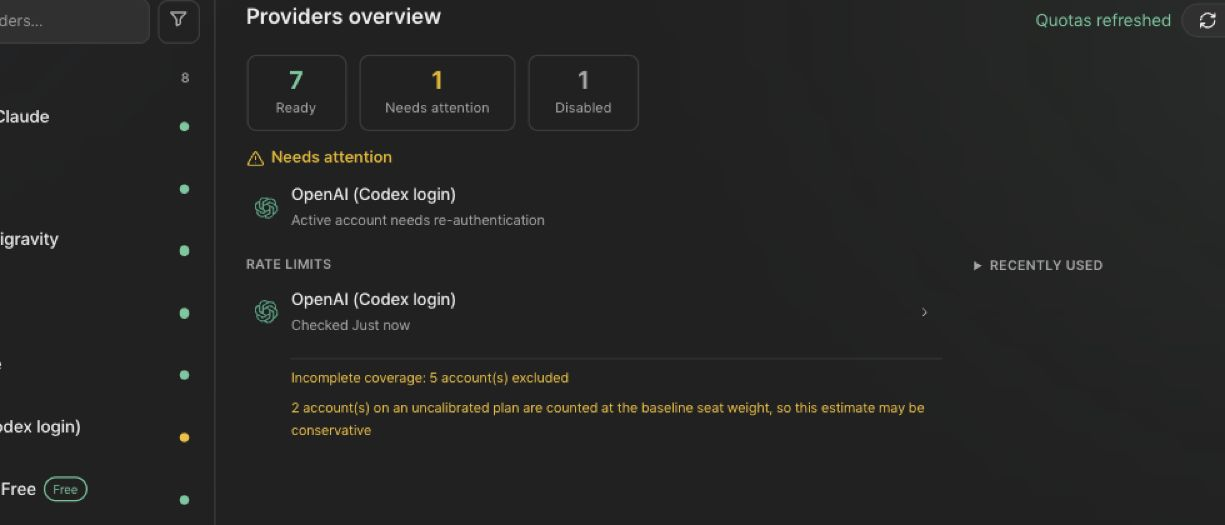
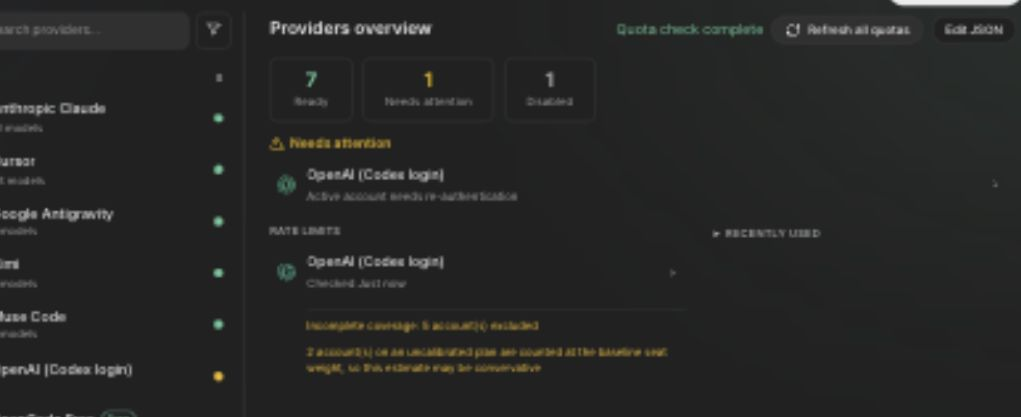
fix(gui): report the aggregate quota read honestly and tighten the review findings
Addresses the Codex and CodeRabbit findings on #3466.

The status line said "Quotas refreshed" on any successful read, which overstates
what the read proves. fetchProviderQuotaReports answers 200 even when an
individual upstream probe fails: that provider keeps its last-good row rather
than losing it. So a partial failure was being announced as a full refresh —
the exact class of lie this control was built to avoid, since it already
resolves from the settled promise for the same reason. The success string is now
pws.quotaRefreshDone ("Quota check complete"), added to all nine locales, and
each row's own age remains the per-provider freshness signal.

Docs: the Providers row in the web-dashboard guide now describes where the
refresh-all control appears and its forced-read/last-good behavior, in the
English source and the Korean locale.

Tests: the brand assertion is bound to the brand node itself rather than to "a
button exists somewhere inside it", so a regression that wrapped a button in a
div.brand would no longer pass. The overview test asserts the honest wording and
explicitly rejects the overstated one.

Also adds language identifiers to the devlog code fences (MD040).

Verification: bun run typecheck, bun run lint:gui, bun run test:changed
(110 pass), 30 focused GUI tests including both new suites and all three locale
parity suites. Rebuilt the GUI and re-checked the live scratch instance with
cache disabled: the served bundle renders "Quota check complete" with
[…]

diff --git a/gui/src/components/provider-workspace/ProviderOverviewDashboard.tsx b/gui/src/components/provider-workspace/ProviderOverviewDashboard.tsx
@@ -68,7 +68,15 @@ export default function ProviderOverviewDashboard({
     setRefreshResult(null);
     try {
       const ok = await onRefreshAllQuotas();
-      setRefreshResult({ ok, text: t(ok ? "codexAuth.quotaRefreshed" : "codexAuth.quotaRefreshFailed") });
+      /*
+       * "Quota check complete", not "Quotas refreshed". The boolean reports whether the
+       * READ succeeded, and the server answers 200 even when an individual upstream probe
+       * failed: fetchProviderQuotaReports keeps that provider's last-good row rather than
+       * dropping it. Claiming every number is fresh would be exactly the lie this control
+       * was built to avoid. Each row carries its own age, which is where per-provider
+       * staleness is already visible.
+       */
+      setRefreshResult({ ok, text: t(ok ? "pws.quotaRefreshDone" : "codexAuth.quotaRefreshFailed") });
     } catch {
       setRefreshResult({ ok: false, text: t("codexAuth.quotaRefreshFailed") });
     } finally {

diff --git a/gui/tests/brand-home-control.test.ts b/gui/tests/brand-home-control.test.ts
@@ -21,9 +21,11 @@ const en = await Bun.file(new URL("../src/i18n/en.ts", import.meta.url)).text();
 const brand = src.slice(src.indexOf("const brand = ("), src.indexOf("</button>", src.indexOf("const brand = (")));
 
 test("the brand is an interactive control, not an inert div", () => {
-  expect(brand).toContain("<button");
+  // Bound to the brand NODE itself, not to "a button exists somewhere inside": a
+  // regression that wrapped a button in <div className="brand brand-home"> would pass
+  // a looser check while the brand stayed an inert div.
+  expect(brand).toMatch(/^const brand = \(\s*<button\b[^>]*\bclassName="brand brand-home"/);
   expect(brand).toContain('type="button"');
-  expect(brand).not.toContain('<div className="brand"');
 });
 
 test("activating the brand navigates to the dashboard", () => {

diff --git a/gui/tests/overview-refresh-all-quotas.test.tsx b/gui/tests/overview-refresh-all-quotas.test.tsx
@@ -125,7 +125,11 @@ test("the control stays disabled until the read settles, then reports success", 
   expect(refreshButton(host).disabled).toBe(false);
   const status = host.querySelector('[role="status"]');
   expect(status?.className).toContain("pws-status-ok");
-  expect(status?.textContent ?? "").toContain("refreshed");
+  // Deliberately "complete", not "refreshed": the server answers 200 even when one
+  // upstream probe failed and its provider kept a last-good row, so claiming every
+  // number is fresh would overstate what the read actually proved.
+  expect(status?.textContent ?? "").toContain("complete");
+  expect(status?.textContent ?? "").not.toContain("refreshed");
 });
 
 test("a failed read is reported as a failure, not silence", async () => {

diff --git a/gui/src/i18n/ru.ts b/gui/src/i18n/ru.ts
@@ -1489,6 +1489,7 @@ export const ru: Record<TKey, string> = {
   "nav.closeMenu": "Закрыть меню",
   "nav.goHome": "Перейти к панели",
   "pws.refreshAllQuotas": "Обновить все квоты",
+  "pws.quotaRefreshDone": "Проверка квот завершена",
   "integrations.subtitle": "Подключайте клиенты к opencodex, управляйте учётными данными и восстанавливайте конфигурацию клиентов.",
   "integrations.tabsLabel": "Разделы интеграций",
   "integrations.tab.overview": "Обзор",

diff --git a/gui/src/i18n/ja.ts b/gui/src/i18n/ja.ts
@@ -1438,6 +1438,7 @@ export const ja: Record<TKey, string> = {
   "nav.closeMenu": "メニューを閉じる",
   "nav.goHome": "ダッシュボードへ移動",
   "pws.refreshAllQuotas": "すべてのクォータを更新",
+  "pws.quotaRefreshDone": "クォータの確認が完了しました",
   "integrations.subtitle": "クライアントを opencodex に接続し、認証情報の管理とクライアント設定の復元を行います。",
   "integrations.tabsLabel": "連携画面",
   "integrations.tab.overview": "概要",

diff --git a/gui/src/i18n/fr.ts b/gui/src/i18n/fr.ts
@@ -1478,6 +1478,7 @@ export const fr: Record<TKey, string> = {
   "nav.closeMenu": "Fermer le menu",
   "nav.goHome": "Aller au tableau de bord",
   "pws.refreshAllQuotas": "Actualiser tous les quotas",
+  "pws.quotaRefreshDone": "Vérification des quotas terminée",
   "integrations.subtitle": "Connectez des clients à opencodex, gérez les identifiants et restaurez la configuration des clients.",
   "integrations.tabsLabel": "Surfaces d’intégration",
   "integrations.tab.overview": "Vue d’ensemble",

diff --git a/gui/src/i18n/de.ts b/gui/src/i18n/de.ts
@@ -1004,6 +1004,7 @@ export const de: Record<TKey, string> = {
   "nav.closeMenu": "Menü schließen",
   "nav.goHome": "Zum Dashboard",
   "pws.refreshAllQuotas": "Alle Kontingente aktualisieren",
+  "pws.quotaRefreshDone": "Kontingentprüfung abgeschlossen",
   "integrations.subtitle": "Clients mit opencodex verbinden, Zugangsdaten verwalten und Client-Konfigurationen wiederherstellen.",
   "integrations.tabsLabel": "Integrationsbereiche",
   "integrations.tab.overview": "Übersicht",

diff --git a/gui/src/i18n/ko.ts b/gui/src/i18n/ko.ts
@@ -1028,6 +1028,7 @@ export const ko: Record<TKey, string> = {
   "nav.closeMenu": "메뉴 닫기",
   "nav.goHome": "대시보드로 이동",
   "pws.refreshAllQuotas": "전체 할당량 갱신",
+  "pws.quotaRefreshDone": "할당량 조회를 마쳤습니다",
   "integrations.subtitle": "클라이언트를 opencodex에 연결하고 자격 증명과 설정 복원을 관리합니다.",
   "integrations.tabsLabel": "연동 화면",
   "integrations.tab.overview": "개요",

diff --git a/gui/src/i18n/tr.ts b/gui/src/i18n/tr.ts
@@ -1496,6 +1496,7 @@ export const tr: Record<TKey, string> = {
   "nav.closeMenu": "Menüyü kapat",
   "nav.goHome": "Panoya git",
   "pws.refreshAllQuotas": "Tüm kotaları yenile",
+  "pws.quotaRefreshDone": "Kota kontrolü tamamlandı",
   "integrations.subtitle": "İstemcileri opencodex'e bağlayın, kimlik bilgilerini yönetin.",
   "integrations.tabsLabel": "Entegrasyon yüzeyleri",
   "integrations.tab.overview": "Genel Bakış",

diff --git a/gui/src/i18n/zh.ts b/gui/src/i18n/zh.ts
@@ -1021,6 +1021,7 @@ export const zh: Record<TKey, string> = {
   "nav.closeMenu": "关闭菜单",
   "nav.goHome": "前往仪表板",
   "pws.refreshAllQuotas": "刷新全部额度",
+  "pws.quotaRefreshDone": "额度检查完成",
   "integrations.subtitle": "将客户端连接到 opencodex，管理凭据并恢复客户端配置。",
   "integrations.tabsLabel": "集成页面",
   "integrations.tab.overview": "概览",

diff --git a/gui/src/i18n/en.ts b/gui/src/i18n/en.ts
@@ -1505,6 +1505,7 @@ export const en = {
   "nav.closeMenu": "Close menu",
   "nav.goHome": "Go to dashboard",
   "pws.refreshAllQuotas": "Refresh all quotas",
+  "pws.quotaRefreshDone": "Quota check complete",
   "integrations.subtitle": "Connect clients to opencodex, manage credentials, and restore client configuration.",
   "integrations.tabsLabel": "Integration surfaces",
   "integrations.tab.overview": "Overview",

diff --git a/gui/src/i18n/zh-TW.ts b/gui/src/i18n/zh-TW.ts
@@ -1269,6 +1269,7 @@ export const zhTW: Record<TKey, string> = {
   "nav.closeMenu": "關閉選單",
   "nav.goHome": "前往儀表板",
   "pws.refreshAllQuotas": "重新整理所有額度",
+  "pws.quotaRefreshDone": "額度檢查完成",
   "codexAuth.mainAccount": "主帳號",
   "codexAuth.codexApp": "Codex App",
   "codexAuth.logLabel": "日誌標籤",
